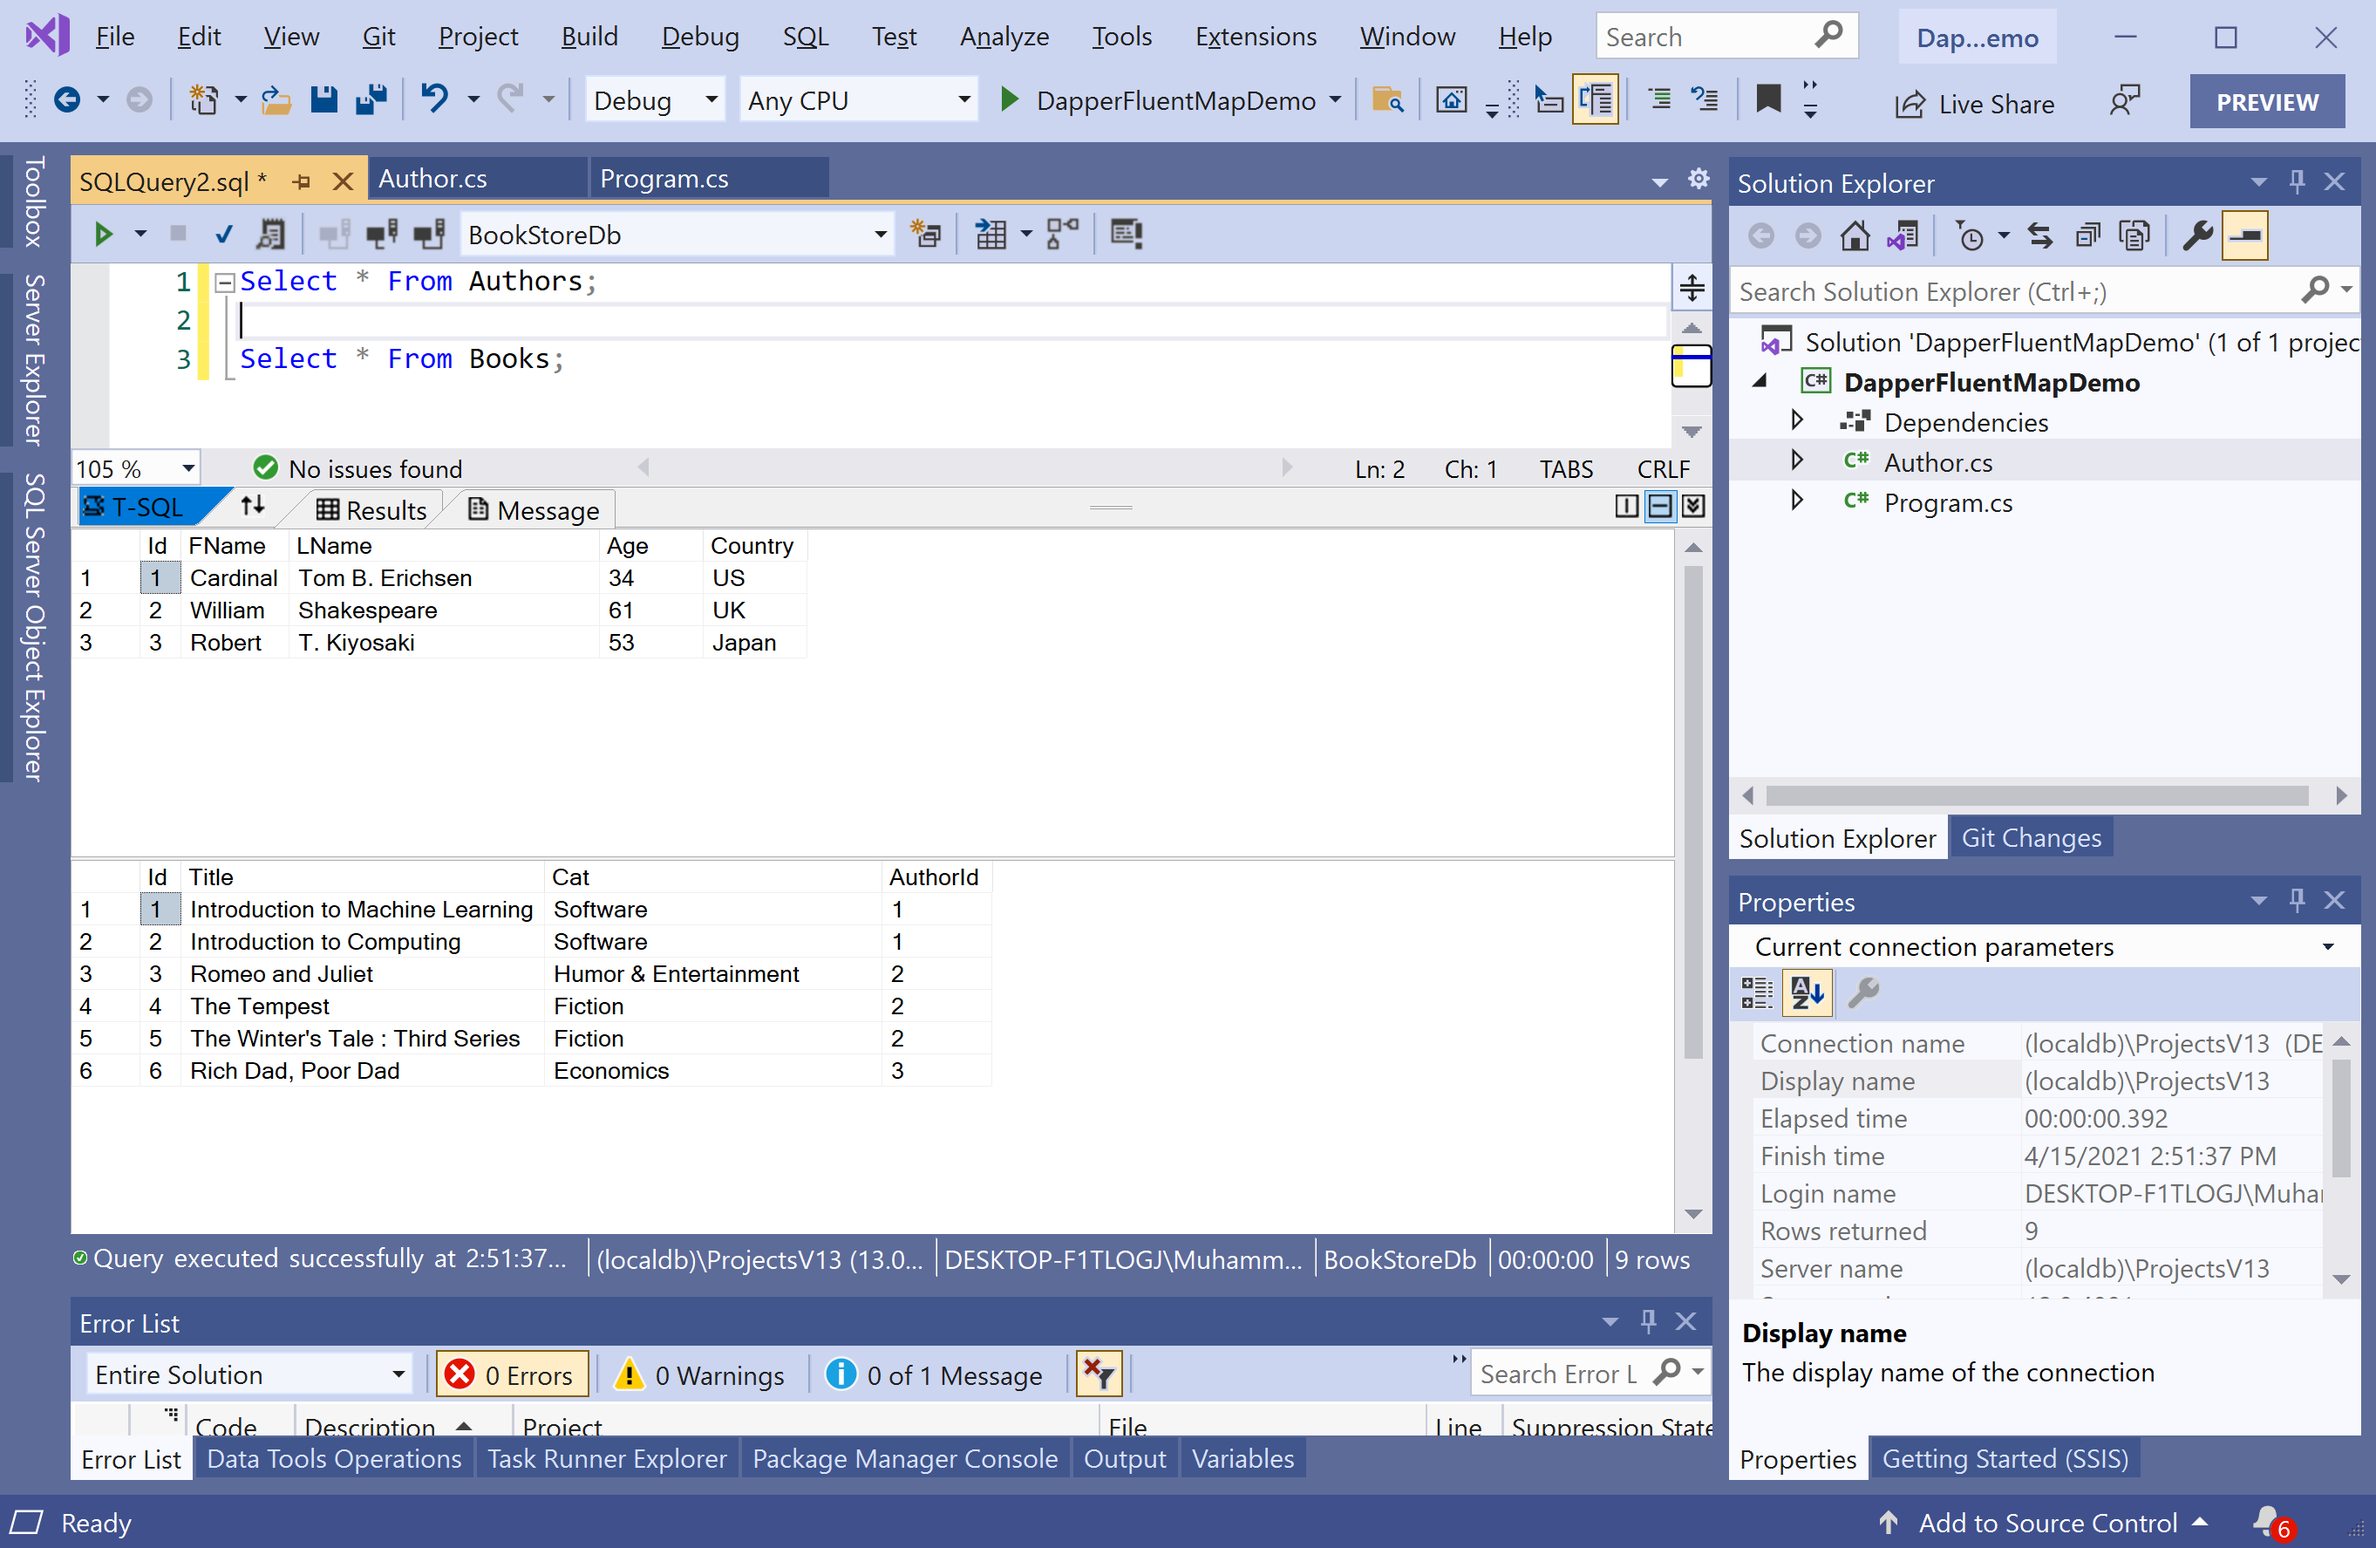
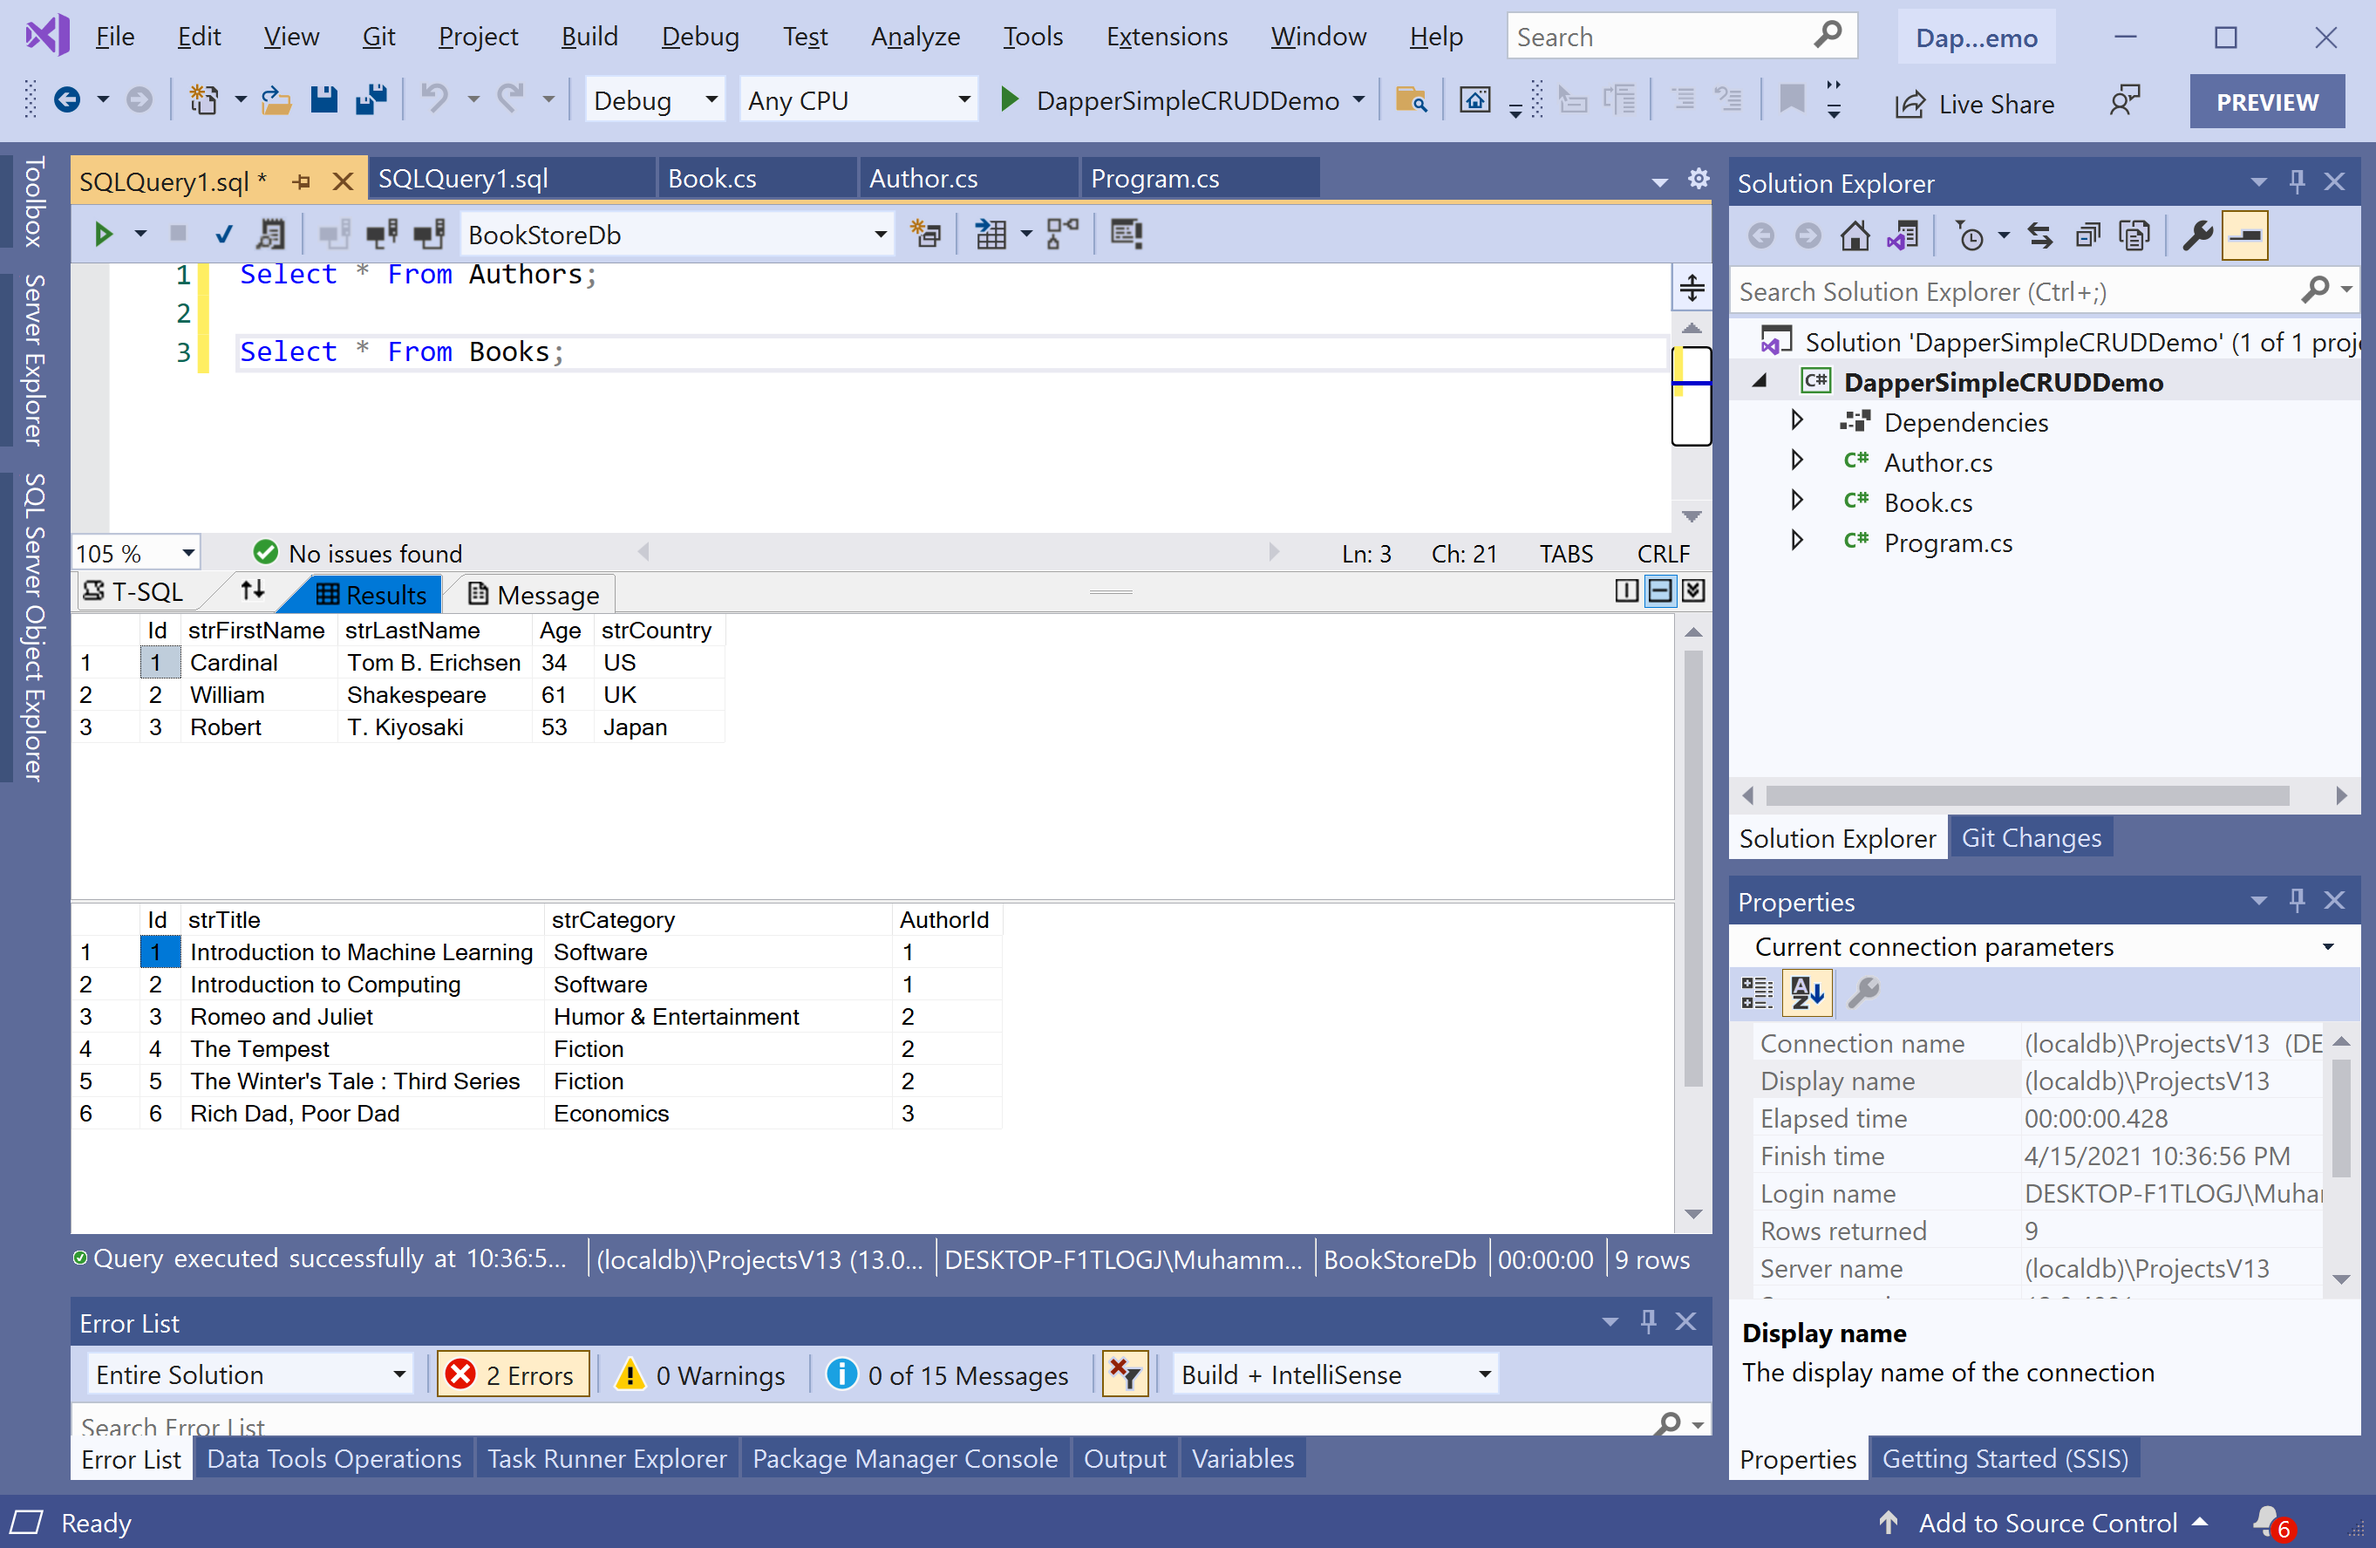
Added Manual Mapping article

diff --git a/tutorials/dapper-fluentmap/manual-mapping.md b/tutorials/dapper-fluentmap/manual-mapping.md
@@ -1,0 +1,187 @@
+---
+PermaID: 100003
+Name: Manual Mapping
+---
+
+# Manual Mapping
+
+The **Dapper.FluentMap** library provides the `EntityMap<TEntity>` class which allows you manually to map property names to the column names in the database. As you know that we have two tables in the database that contains the following data.
+
+<img src="images/database-setup.png" alt="Database data">
+
+Now let's create two classes called `Author` and `Book`. Here is the implementation of the `Author` class.
+
+```csharp
+using System;
+using System.Collections.Generic;
+using System.Linq;
+using System.Text;
+using System.Threading.Tasks;
+
+namespace DapperFluentMapDemo
+{
+    public class Author
+    {
+        public int Id { get; set; }
+        public string FirstName { get; set; }
+        public string LastName { get; set; }
+        public string FullName
+        {
+            get
+            {
+                return FirstName + " " + LastName;
+            }
+        }
+        public int Age { get; set; }
+        public string Country { get; set; }
+        public List<Book> Books { get; set; }
+    }
+}
+```
+
+The following is the implementation of the `Book` class.
+
+```csharp
+using System;
+using System.Collections.Generic;
+using System.ComponentModel.DataAnnotations.Schema;
+using System.Linq;
+using System.Text;
+using System.Threading.Tasks;
+
+namespace DapperFluentMapDemo
+{
+    public class Book
+    {
+        public int Id { get; set; }
+        public string Title { get; set; }
+        public string Category { get; set; }
+        public int AuthorId { get; set; }
+    }
+}
+```
+
+If you look at the columns in the database and the respective properties in the model classes, you will see that few properties are not matching with columns such as, `strFirstName`, `strLastName` and `strCountry` in the `Authors` table and `strTitle` and `strCategory` in the `Books` table.
+
+Now to map all the columns in the `Authors` table with the corresponding properties in the `Author` class, let's create a class called `AuthorMap` and derived it from the `EntityMap<Author>` class.
+
+```csharp
+using Dapper.FluentMap.Mapping;
+using System;
+using System.Collections.Generic;
+using System.Linq;
+using System.Text;
+using System.Threading.Tasks;
+
+namespace DapperFluentMapDemo
+{
+    public class AuthorMap : EntityMap<Author>
+    {
+        public AuthorMap()
+        {
+            Map(a => a.FirstName)
+                .ToColumn("strFirstName");
+
+            Map(a => a.LastName)
+                .ToColumn("strLastName");
+
+            Map(a => a.Country)
+                .ToColumn("strCountry");
+
+            Map(a => a.FullName)
+                .Ignore();
+        }
+    }
+}
+``` 
+
+When you derive a class from `EntityMap<TEntity>`, the constructor gives you access to the `Map` method, which allows you to specify to which database column should be mapped to a certain property of `TEntity`.
+
+Similarly, create another class and defined for `Book` class as shown below.
+
+```csharp
+using System;
+using System.Collections.Generic;
+using System.Linq;
+using System.Text;
+using System.Threading.Tasks;
+using Dapper.FluentMap.Mapping;
+
+namespace DapperFluentMapDemo
+{
+    public class BookMap : EntityMap<Book>
+    {
+        public BookMap()
+        {
+            Map(b => b.Title)
+                .ToColumn("strTitle");
+
+            Map(b => b.Category)
+                .ToColumn("strCategory");
+        }
+    }
+}
+```
+
+We have defined all the required mappings, now we need to initialize our mappings at the start of the application.
+
+```csharp
+FluentMapper.Initialize(config =>
+{
+    config.AddMap(new AuthorMap());
+    config.AddMap(new BookMap());
+});
+```
+We can now perform any database operations using Dapper as shown below.
+
+```csharp
+static void Main(string[] args)
+{
+    FluentMapper.Initialize(config =>
+    {
+        config.AddMap(new AuthorMap());
+        config.AddMap(new BookMap());
+    });
+
+    Author author = GetAuthorAndTheirBooks(2);
+
+    Console.WriteLine("{0} ({1})", author.FullName, author.Country);
+
+    foreach (var book in author.Books)
+    {
+        Console.WriteLine("\t Title: {0} \t  Category: {1}", book.Title, book.Category);
+    }
+}
+
+private static Author GetAuthorAndTheirBooks(int id)
+{
+    string sql =
+        "SELECT * FROM Authors WHERE Id = @Id;" +
+        "SELECT * FROM Books WHERE AuthorId = @Id;";
+
+    using (IDbConnection db = new SqlConnection(ConnectionString))
+    {
+        using (var results = db.QueryMultiple(sql, new { Id = id }))
+        {
+            var author = results.Read<Author>().SingleOrDefault();
+            var books = results.Read<Book>().ToList();
+
+            if (author != null && books != null)
+            {
+                author.Books = books;
+            }
+
+            return author;
+        }
+    }
+}
+```
+
+Let's execute the above code and you will see the following output.
+
+```csharp
+William Shakespeare (UK)
+         Title: Romeo and Juliet          Category: Humor & Entertainment
+         Title: The Tempest       Category: Fiction
+         Title: The Winter's Tale : Third Series          Category: Fiction
+```

diff --git a/tutorials/dapper-fluentmap/database-setup.md b/tutorials/dapper-fluentmap/database-setup.md
@@ -23,10 +23,10 @@ GO
 
 CREATE TABLE [dbo].[Authors](
 	[Id] [int] IDENTITY(1,1) NOT NULL,
-	[FName] [nvarchar](450) NULL,
-	[LName] [nvarchar](450) NULL,
+	[strFirstName] [nvarchar](450) NULL,
+	[strLastName] [nvarchar](450) NULL,
 	[Age] [int] NULL,
-	[Country] [nvarchar](450) NULL,
+	[strCountry] [nvarchar](450) NULL,
  CONSTRAINT [PK_Authors] PRIMARY KEY CLUSTERED 
 (
 	[Id] ASC
@@ -36,8 +36,8 @@ GO
 
 CREATE TABLE [dbo].[Books](
 	[Id] [int] IDENTITY(1,1) NOT NULL,
-	[Title] [nvarchar](450) NULL,
-	[Cat] [nvarchar](max) NULL,
+	[strTitle] [nvarchar](450) NULL,
+	[strCategory] [nvarchar](max) NULL,
 	[AuthorId] [int] NOT NULL,
  CONSTRAINT [PK_Books] PRIMARY KEY CLUSTERED 
 (
@@ -56,16 +56,16 @@ USE [BookStoreDb]
 
 GO
 
-INSERT INTO Authors(FName, LName, Age, Country) VALUES ('Cardinal','Tom B. Erichsen', 34, 'US');
-INSERT INTO Authors(FName, LName, Age, Country) VALUES ('William','Shakespeare', 61, 'UK');
-INSERT INTO Authors(FName, LName, Age, Country) VALUES ('Robert','T. Kiyosaki', 53, 'Japan');
+INSERT INTO Authors(strFirstName, strLastName, Age, strCountry) VALUES ('Cardinal','Tom B. Erichsen', 34, 'US');
+INSERT INTO Authors(strFirstName, strLastName, Age, strCountry) VALUES ('William','Shakespeare', 61, 'UK');
+INSERT INTO Authors(strFirstName, strLastName, Age, strCountry) VALUES ('Robert','T. Kiyosaki', 53, 'Japan');
 
-INSERT INTO Books(Title, Cat, AuthorId) VALUES ('Introduction to Machine Learning', 'Software', 1);
-INSERT INTO Books(Title, Cat, AuthorId) VALUES ('Introduction to Computing', 'Software', 1);
-INSERT INTO Books(Title, Cat, AuthorId) VALUES ('Romeo and Juliet', 'Humor & Entertainment', 2);
-INSERT INTO Books(Title, Cat, AuthorId) VALUES ('The Tempest', 'Fiction', 2);
-INSERT INTO Books(Title, Cat, AuthorId) VALUES ('The Winter''s Tale : Third Series', 'Fiction', 2);
-INSERT INTO Books(Title, Cat, AuthorId) VALUES ('Rich Dad, Poor Dad', 'Economics', 3);
+INSERT INTO Books(strTitle, strCategory, AuthorId) VALUES ('Introduction to Machine Learning', 'Software', 1);
+INSERT INTO Books(strTitle, strCategory, AuthorId) VALUES ('Introduction to Computing', 'Software', 1);
+INSERT INTO Books(strTitle, strCategory, AuthorId) VALUES ('Romeo and Juliet', 'Humor & Entertainment', 2);
+INSERT INTO Books(strTitle, strCategory, AuthorId) VALUES ('The Tempest', 'Fiction', 2);
+INSERT INTO Books(strTitle, strCategory, AuthorId) VALUES ('The Winter''s Tale : Third Series', 'Fiction', 2);
+INSERT INTO Books(strTitle, strCategory, AuthorId) VALUES ('Rich Dad, Poor Dad', 'Economics', 3);
 ```
 
 Let's try the following queries to test the data in the database.
@@ -80,3 +80,8 @@ Let's click on the **Execute** button, and you will see the results of the above
 
 <img src="images/database-setup.png" alt="Database Setup">
 
+In the `Program` class, define the static variable, which contains the connection string of the database.
+
+```csharp
+static string ConnectionString = @"Data Source=(localdb)\ProjectsV13;Initial Catalog=BookStoreDb;Integrated Security=True;";
+```

diff --git a/tutorials/dapper-fluentmap/_sidebar.md b/tutorials/dapper-fluentmap/_sidebar.md
@@ -1,3 +1,4 @@
 - [Overview](overview.md)
 - [Environment Setup](environment-setup.md)
 - [Database Setup](database-setup.md)
+- [Manual Mapping](manual-mapping.md)
